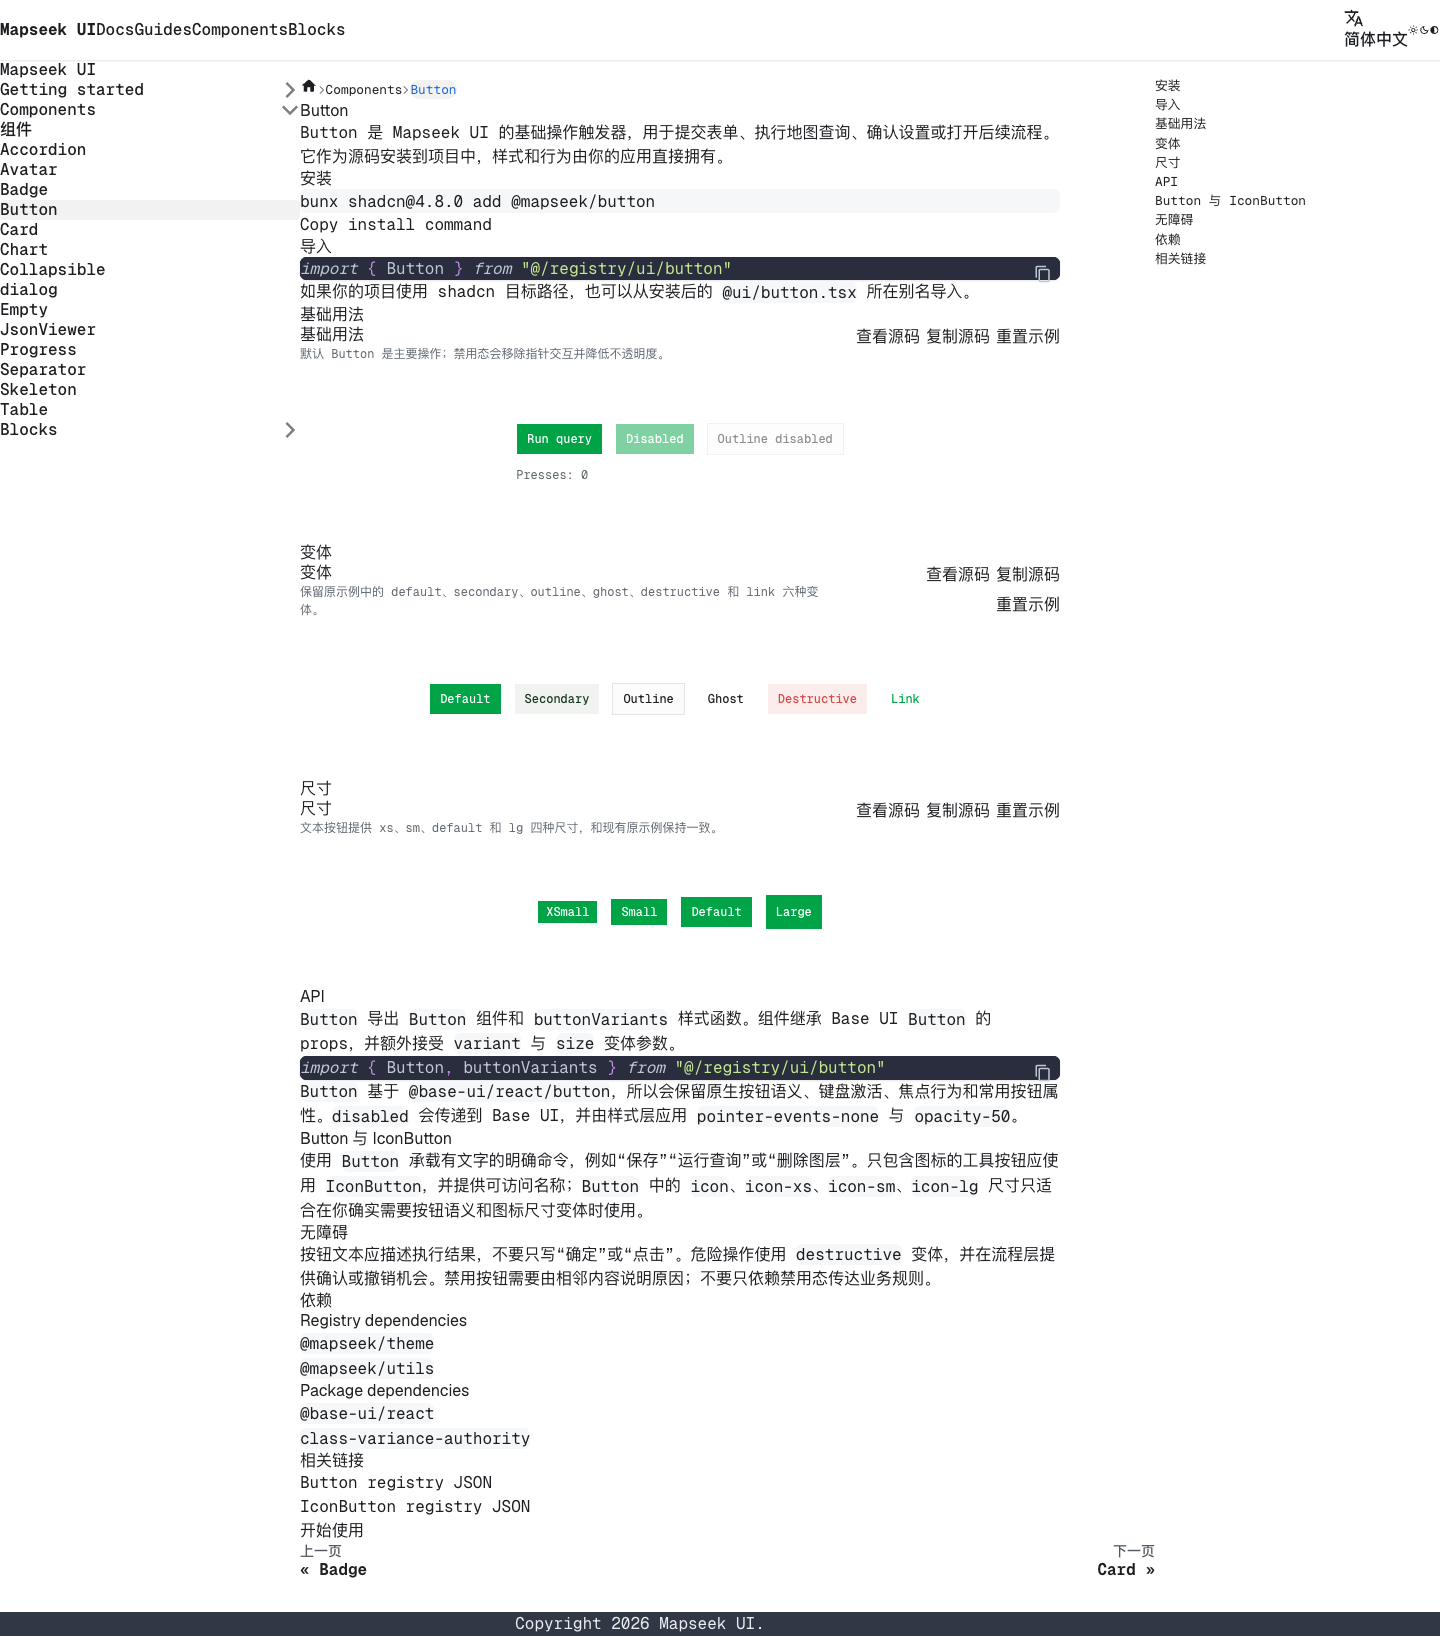
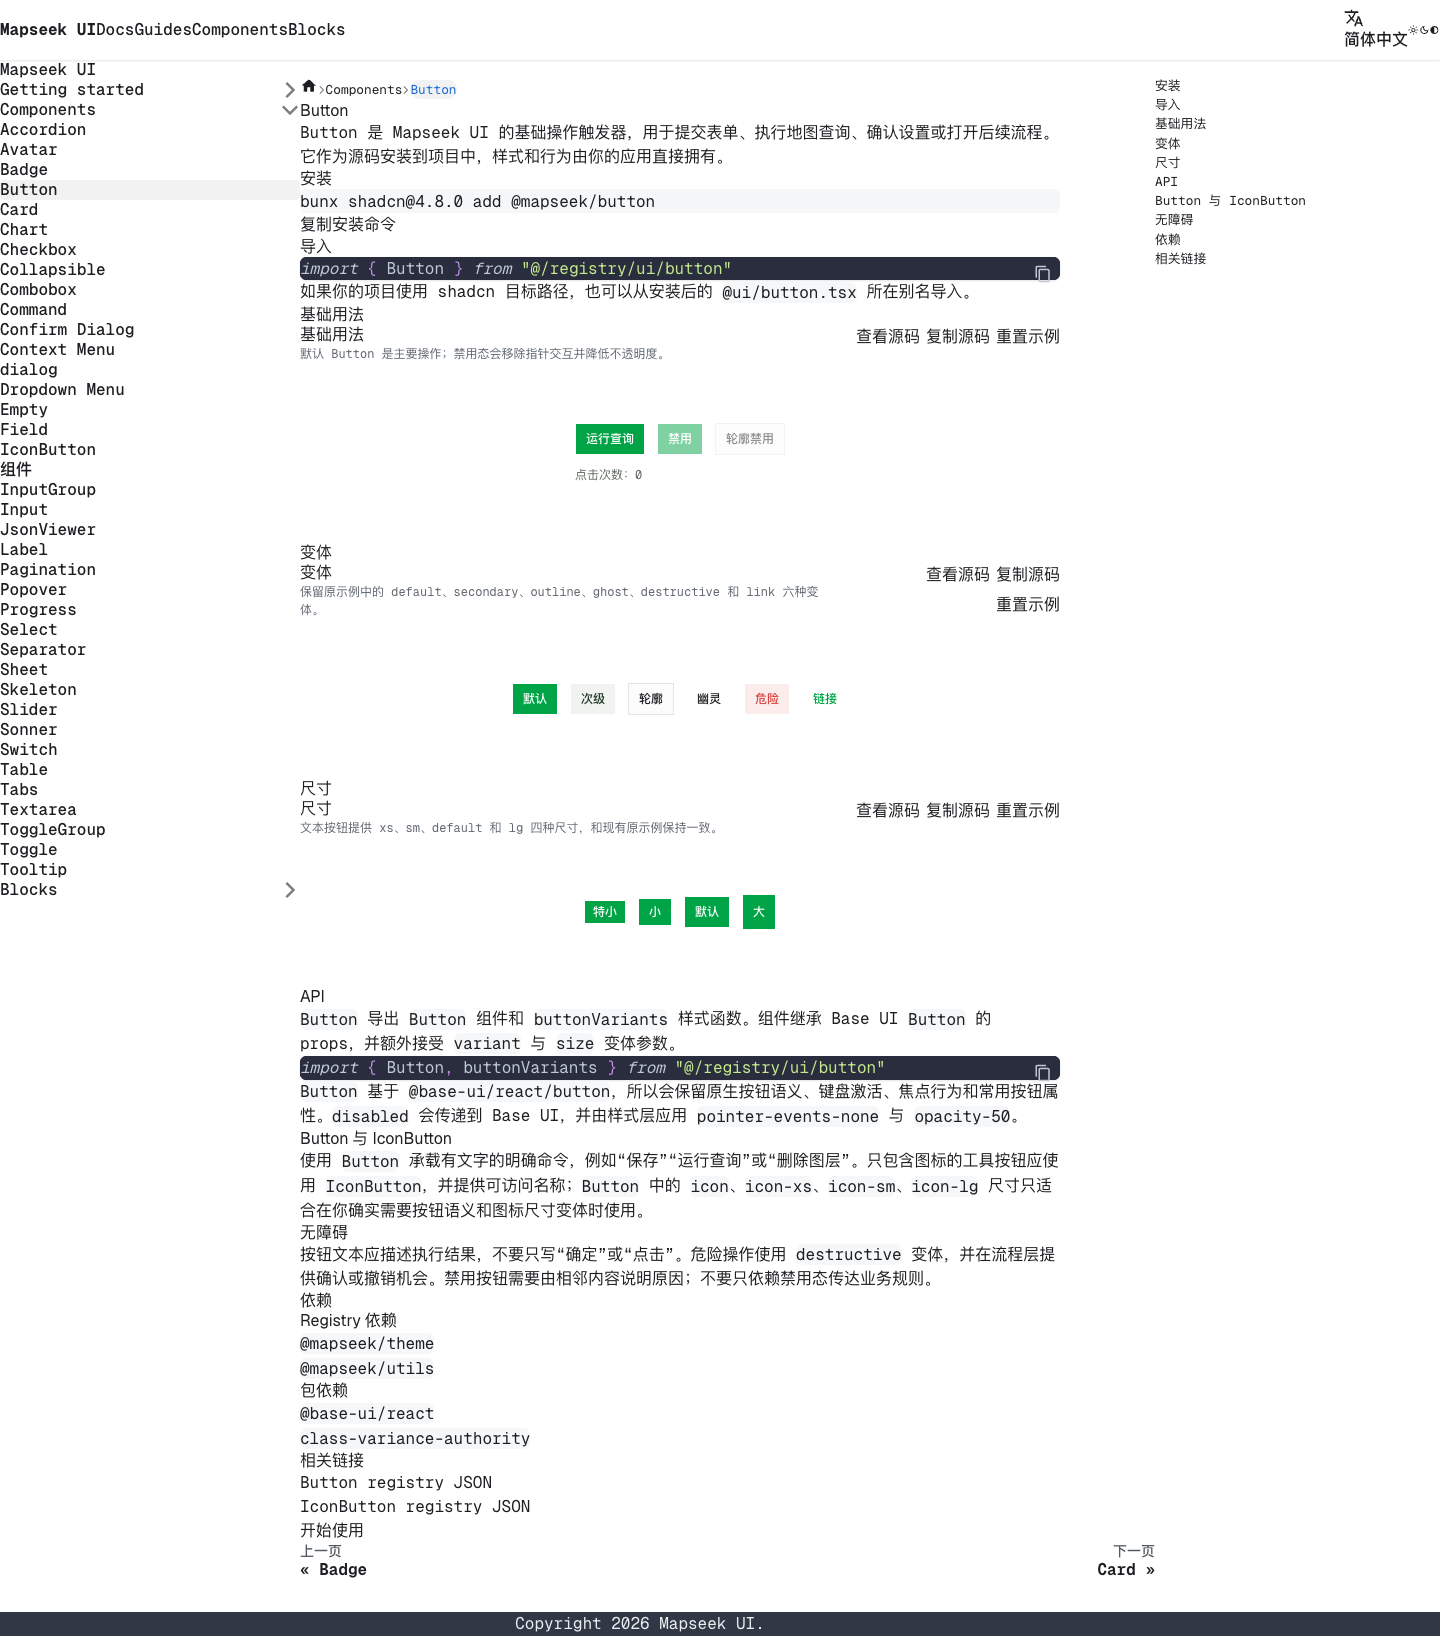
Bind release evidence to the final implementation
The handoff now names the final runtime commit, records the expanded test and lint totals, captures clean-lock reproducibility, and replaces screenshots with the localized, complete-navigation output.

Confidence: high

Scope-risk: narrow

Tested: Full docs verification at b936f94; Chrome screenshots for zh Button, en Dialog, and mobile zh LayerPanel.

Not-tested: Production CDN cache behavior until deployment.

diff --git a/docs/superpowers/verification/2026-08-01-mapseek-ui-documentation-platform.md b/docs/superpowers/verification/2026-08-01-mapseek-ui-documentation-platform.md
@@ -4,7 +4,7 @@
 
 分支：`zwishing/docs-site`
 
-已验证实现提交：`adc6ee2`（基于 Showcase 移除提交 `605db31`）
+最终实现提交：`b936f94`（包含本地化修复 `2e11b90`，基于 Showcase 移除提交 `605db31`）。本证据提交位于其后，仅更新验证记录与截图，不改变运行时代码。
 
 ## 结果
 
@@ -12,17 +12,18 @@
 
 ## 自动验证
 
-在 Showcase 移除后执行 `bun run docs:verify`，结果：
+在最终实现提交上执行 `bun run docs:verify`，结果：
 
-- `bun run lint`：通过，检查 396 个文件。
+- `bun run lint`：通过，检查 397 个文件。
 - `bun run typecheck`：通过根项目与 docs TypeScript 检查。
 - `bun run registry:validate`：通过。
 - `bun run docs:check-i18n`：通过，中英文页面成对且导航完整。
 - `bun run docs:check-examples`：通过，公开 registry 项均有嵌入示例。
 - `bun run docs:build`：通过，生成 `packages/docs/build` 与 `packages/docs/build/en`。
-- `bun test`：通过，71 个测试、742 个断言、0 失败。
+- `bun test`：通过，72 个测试、823 个断言、0 失败。
 - `bun run docs:visual`：通过 onboarding、pilots、primitive、block 四组浏览器检查；覆盖中英文、亮暗主题、桌面与移动端以及真实交互。
 - `bun run verify:items button layout layer-panel`：通过三次真实 shadcn 安装、TypeScript 与 Vite 构建。
+- `bun install --frozen-lockfile --lockfile-only`：在仅由 Git index 展开的干净目录中通过，Playwright 发布依赖可复现。
 
 移除用户可见的 Showcase 迁移文案后，再次执行 `docs:check-i18n`、`docs:check-examples`、`docs:build` 与 pilots 浏览器矩阵，全部通过。
 
